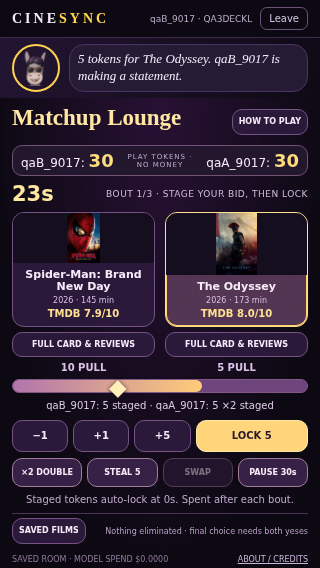
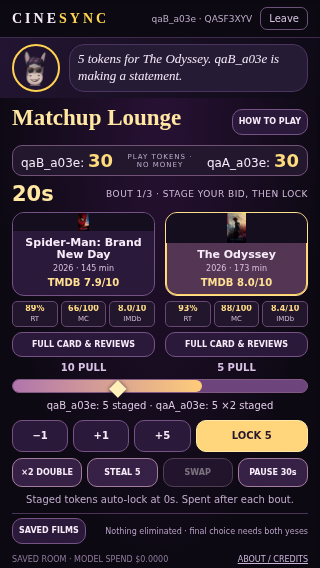
test: retain final live-score Lounge screenshot evidence locally

diff --git a/checks/find-our-film/lounge-visual-live.py b/checks/find-our-film/lounge-visual-live.py
@@ -26,6 +26,7 @@ try:
    assert q.get_by_role('img',name='Donkey Chester',exact=False).is_visible()
    for e in q.locator('main,section,section>div,[class*=lounge],[class*=match]').all():
     dims=e.evaluate('(e)=>[e.scrollHeight,e.clientHeight,e.scrollWidth,e.clientWidth]');assert dims[0]<=dims[1]+2 and dims[2]<=dims[3]+2,dims
+   expect(q.locator('[aria-label^="Critic and audience scores"]').first).not_to_contain_text('Unavailable',timeout=15000)
    q.screenshot(path='/downloads/find-lounge-final-bout'+str(q.viewport_size['width'])+'.png')
   a.get_by_role('button',name='PAUSE 30s',exact=True).click();expect(a.get_by_text('CLOCK PAUSED',exact=False)).to_be_visible()
   # Preview the full original card and its live review scores, not a fabricated mini score.

diff --git a/checks/find-our-film/STATUS.md b/checks/find-our-film/STATUS.md
@@ -74,3 +74,5 @@ Trackerrow20419:49/19:51 exactSHA,zeropaidmodelcalls/purchases/provider-widecurr
 - Tracker row204 F:J updated and readback confirmed at20:54 GMT. Paid spend0, GBP5 ceiling intact. Existing free TMDB/OMDb and 900/day metadata guard unchanged; inherited room policy untouched.
 
 20:57 final UI refinement: RT/Metacritic/IMDb are also visible directly under each Lounge film, using the existing private live metadata endpoint and guard. Missing source values say Unavailable. Full card remains available. All five choose/bout/result/rules viewport checks pass again, with side-thumbnail compact layout below541px height. This is not a game-rule or backend change.
+
+20:58 closeout: final runtime `f4cec8c` READY. Final deployed two-browser screenshots include live unsealed RT/MC/IMDb beneath both films, loaded posters, visible10:5 tug and Chester. Full-card and forced-poster-failure fallback inspected again. No clipping at320/390. Latest screenshots/logs refreshed locally in evidence directory; local evidence-only commit is deliberately not pushed to avoid another unchanged-app deploy. Tracker row204 F updated/readback confirmed. All QA records removed. Secret exact-match scan passed for tracked source/browser assets; no .env.local. Temporary deployment/service credentials removed after final verification. No recurring monitoring or new obligations remain with builder; parent owns user retest.
